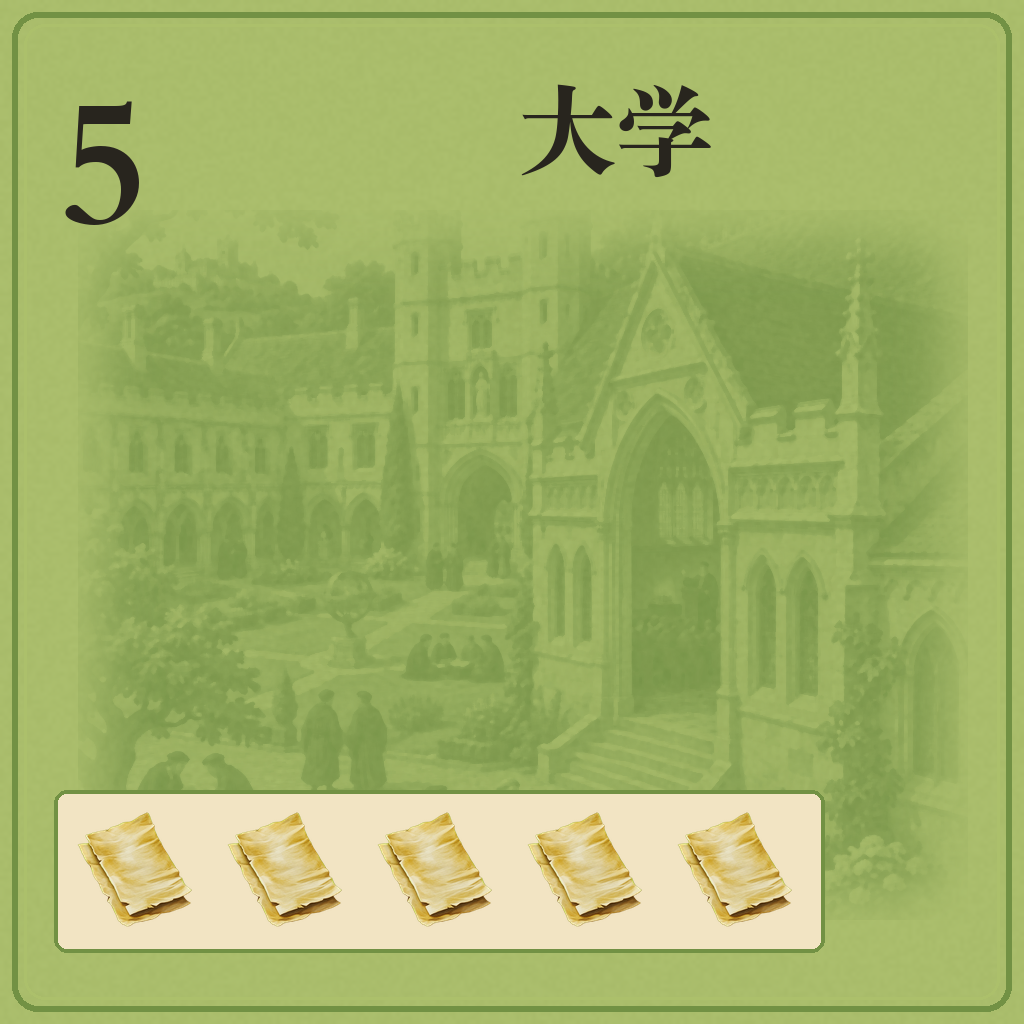
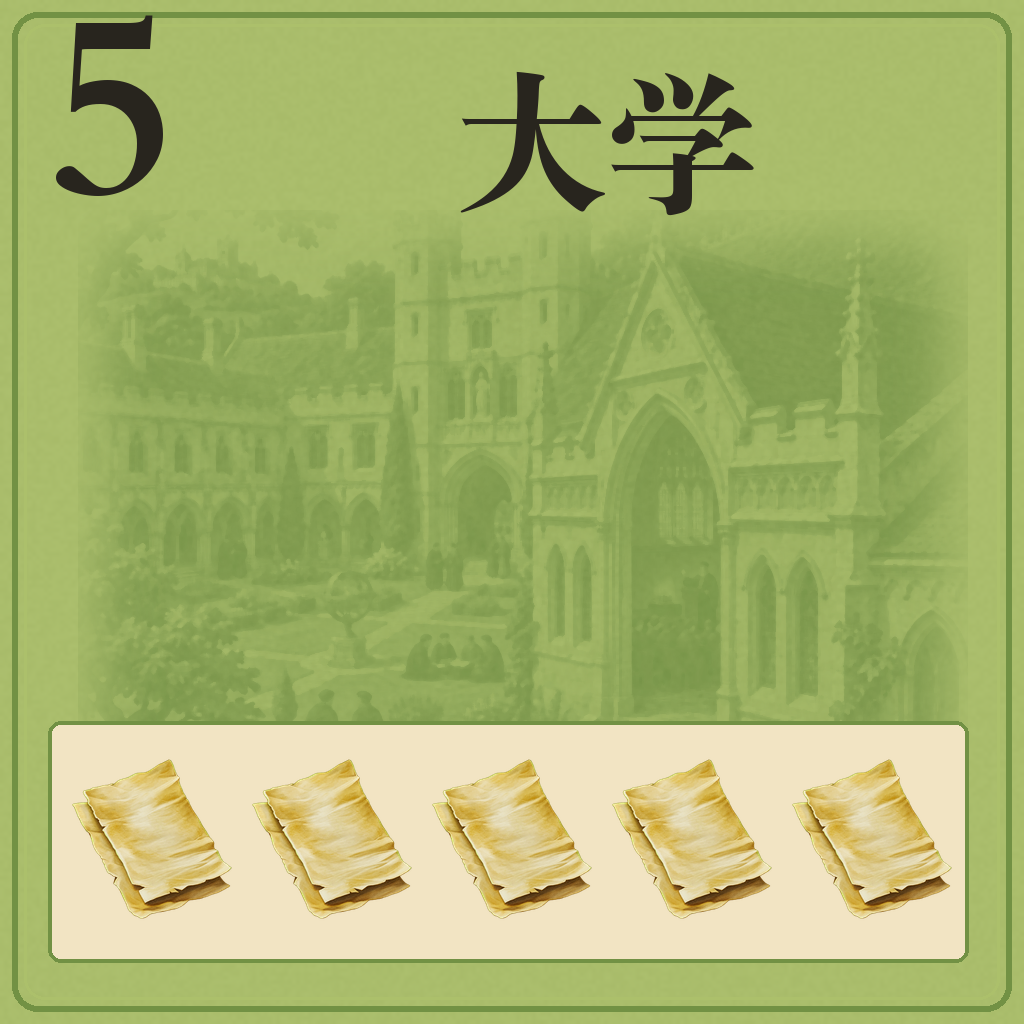
放大设施卡标记并用当前建筑和升级插画展示建设过程

Changed region(s): [[0.0312, 0.6875, 0.9688, 0.9375], [0.4688, 0.0625, 0.75, 0.2188], [0.0312, 0.0, 0.1562, 0.2188]]

diff --git a/Unity/Catan/Assets/Scripts/OperationDock.cs b/Unity/Catan/Assets/Scripts/OperationDock.cs
@@ -824,12 +824,10 @@ public sealed partial class OperationDock
             }
         }
 
-        int shownLevel = Mathf.Min(build.Level + 1, 5);
-        var page = EntityCardAssets.Texture("FacilityTray/Pages/" + FacilityPageIds[track] + "-" + shownLevel);
+        var page = EntityCardAssets.Texture("FacilityTray/Pages/" + FacilityPageIds[track] + "-" + build.Level);
         var pageRect = new Rect(767,149,374,546);
         if (page != null) DrawFacilityPrint(pageRect,page);
         bool complete = build.Level >= 5;
-        FacilityText(new Rect(910,201,92,24), complete ? "Ⅴ" : build.Level+" → "+shownLevel,19,true);
         var action = new Rect(790,624,333,51);
         Register(action);
         if (complete)

diff --git a/The Farmer's Log.md b/The Farmer's Log.md
@@ -1,5 +1,9 @@
 # 农场主手记
 
+## 2026-11-04 — 设施卡放大标记与图示升级
+
+放大全部待建卡的等级、名称和商品图标。设施图鉴以实际等级选页，零级展示待建空地，一级至五级展示当前建筑。下方用成对插画表示本次升级，底部显示建造和实际费用。满级单独展示最终建筑。已截取三类设施的零级实机画面。[验收图片](docs/verification/city-facility-build/)
+
 ## 2026-11-04 — 城市设施待建面回归原版布局
 
 三类设施的 15 张待建面统一为浅色印刷底、深墨等级与名称、同色建筑底纹和左下角商品图标。按等级展示一至五组布匹、钱币或纸张。已在本地城市与骑士对局截取三类 0 级面板，并整理一级实体原照、待建面与已建面对照。[验收图片](docs/verification/city-facility-print/)
